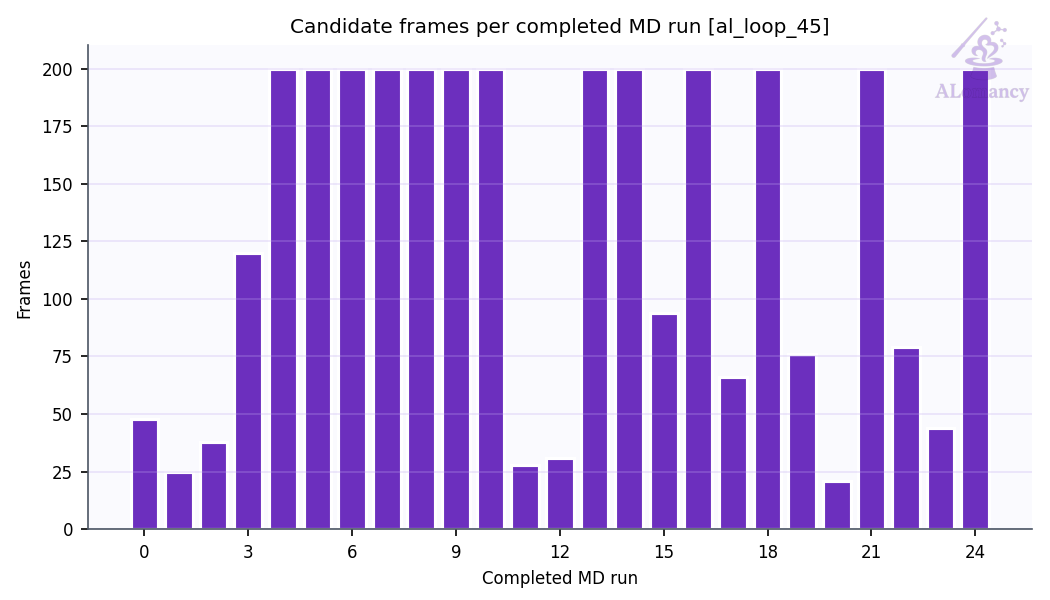
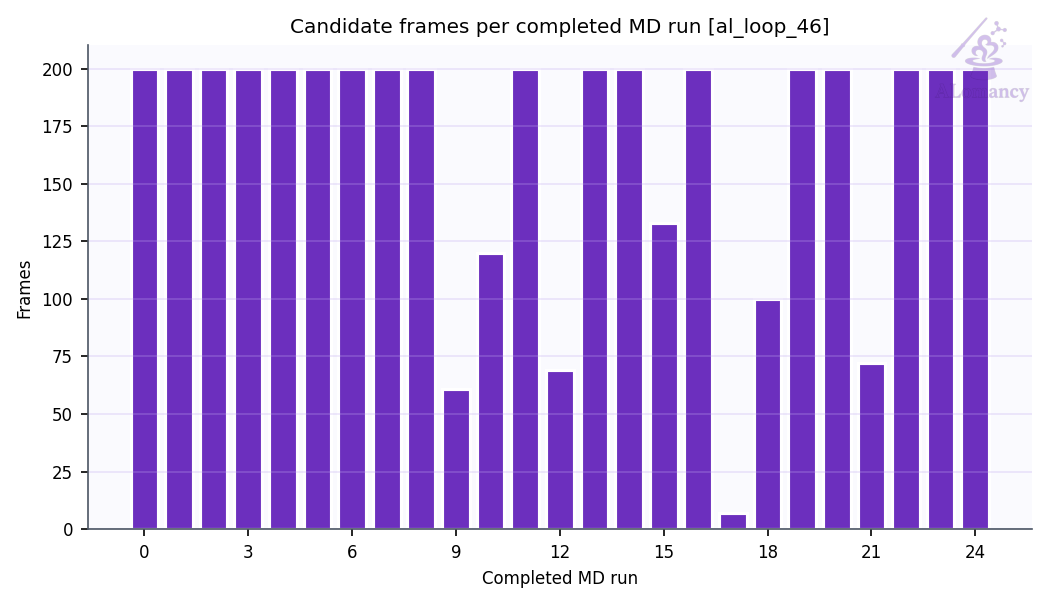
update yun_an

diff --git a/alomancy/yun_an/report/report.md b/alomancy/yun_an/report/report.md
@@ -1,28 +1,29 @@
-# ALomancy report: al_loop_45
+# ALomancy report: al_loop_46
 
-Workflow `committee_uncertainty` · trainer `mace` · generator `md` · evaluator `qe` · generated 2026-10-31T11:51:28
+Workflow `committee_uncertainty` · trainer `mace` · generator `md` · evaluator `qe` · generated 2026-11-01T06:03:38
 
-**Status:** ✖ 2 errors · ⚠ 1 warning · 💡 1 info · 100 warning(s) logged
+**Status:** ✖ 2 errors · ⚠ 2 warnings · 💡 1 info · 50 warning(s) logged
 
 ## Headline
 
-| | loop 44 | loop 45 | change |
+| | loop 45 | loop 46 | change |
 |---|---:|---:|---:|
-| Best model test force MAE (eV/Å) | 0.346 | 0.412 | +19% |
-| Best model test energy MAE (meV/atom) | 144 | 156 | +8% |
-| Training structures | 2e+03 | 2.01e+03 | +1% |
-| Test structures | 100 | 101 | +1% |
-| New structures this loop | 40 | 6 | -85% |
-| Warnings / errors logged | 33 | 100 | +203% |
+| Best model test force MAE (eV/Å) | 0.412 | 0.353 | -14% |
+| Best model test energy MAE (meV/atom) | 156 | 207 | +33% |
+| Training structures | 2.01e+03 | 2.06e+03 | +2% |
+| Test structures | 101 | 107 | +6% |
+| New structures this loop | 6 | 54 | +800% |
+| Warnings / errors logged | 100 | 50 | -50% |
 
-Best model: fit_4 of 5 (chosen on the `valid` split).
+Best model: fit_0 of 5 (chosen on the `valid` split).
 
 ## Issues & suggestions
 
-- ✖ **remote_jobs_failed**: 97/136 remote jobs (71%) failed (85) or died (12). Check the job logs (results/alomancy.log has each failure's traceback); jobs killed by the scheduler usually need a longer max_time for that phase, or a partition with more memory.
-- ✖ **dft_partial_failure**: 94/100 structures sent to DFT (94%) came back without a result. Check the DFT output in results/<loop>/high_accuracy_evaluation; raise high_accuracy_evaluation.max_time / max_go_time if jobs timed out.
-- ⚠ **short_bond_excluded**: 2072/3745 structures (55%) were dropped for a bond shorter than 0.5 Å. The model is driving MD into collisions: lower md_kwargs.temperature or md_kwargs.timestep_fs, or add more short-range initialization data (dimers/trimers).
-- 💡 **overfitting**: The best model's test force MAE (0.412 eV/Å) is 2.5x its training MAE (0.165 eV/Å). The test set covers configurations training doesn't: keep adding data, or raise general.dataset_kwargs.valid_fraction to select models on held-out data.
+- ✖ **remote_jobs_failed**: 47/131 remote jobs (36%) failed (41) or died (6). Check the job logs (results/alomancy.log has each failure's traceback); jobs killed by the scheduler usually need a longer max_time for that phase, or a partition with more memory.
+- ✖ **dft_partial_failure**: 46/100 structures sent to DFT (46%) came back without a result. Check the DFT output in results/<loop>/high_accuracy_evaluation; raise high_accuracy_evaluation.max_time / max_go_time if jobs timed out.
+- ⚠ **go_not_converged**: 33/54 geometry optimisations (61%) stopped at the step budget (200 steps) before reaching the force ceiling. Raise high_accuracy_evaluation.max_num_of_relax_steps, or raise high_accuracy_evaluation.force_ceiling (now 0.05 eV/Å) so they stop earlier. Non-converged structures are still kept as training data.
+- ⚠ **short_bond_excluded**: 3369/4637 structures (73%) were dropped for a bond shorter than 0.5 Å. The model is driving MD into collisions: lower md_kwargs.temperature or md_kwargs.timestep_fs, or add more short-range initialization data (dimers/trimers).
+- 💡 **go_steps_near_budget**: Geometry optimisations used 185 of 200 allowed steps on average (92%). Consider raising high_accuracy_evaluation.max_num_of_relax_steps before they start hitting the limit.
 
 ## Trends
 
@@ -38,6 +39,7 @@ Best model: fit_4 of 5 (chosen on the `valid` split).
 | 43 | 0.473 | 1971 | 57 | 57/75 | 77% | 3 | 39 |
 | 44 | 0.346 | 1997 | 40 | 40/55 | 72% | 5 | 33 |
 | 45 | 0.412 | 2007 | 6 | 6/100 | 100% | 0 | 100 |
+| 46 | 0.353 | 2055 | 54 | 54/100 | 39% | 0 | 50 |
 
 ![Best-model MAE per loop](plots/training_al_loop_mae_plot.png)
 
@@ -47,7 +49,7 @@ Best model: fit_4 of 5 (chosen on the `valid` split).
 
 ![Best model parity](plots/best_model_parity.png)
 
-Median relative error: train energy 4.3%, force 18.6%; test energy 1.8%, force 214.7%.
+Median relative error: train energy 3.9%, force 20.6%; test energy 4.1%, force 213.4%.
 Energies with |formation energy| < 0.05 eV/atom and atoms with |F| < 0.1 eV/Å are left out; force error is |ΔF|/|F| per atom.
 
 ![Best model percentage error](plots/best_model_percent_error.png)
@@ -57,17 +59,17 @@ Energies with |formation energy| < 0.05 eV/atom and atoms with |F| < 0.1 eV/Å a
 | config_type | Train | Test | Excluded: redundant | Excluded: quality filter | total |
 |---|---:|---:|---:|---:|---:|
 | IsolatedAtom | 5 | 0 | 0 | 0 | 5 |
-| high_sd | 606 | 85 | 28 | 375 | 1094 |
+| high_sd | 654 | 91 | 28 | 429 | 1202 |
 | init_MP | 69 | 4 | 0 | 0 | 73 |
 | init_amorphous | 67 | 12 | 8 | 0 | 87 |
 | init_dimer | 299 | 0 | 0 | 0 | 299 |
 | init_stretch_compress | 390 | 0 | 0 | 398 | 788 |
 | init_trimer | 571 | 0 | 0 | 0 | 571 |
-| **all** | **2007** | **101** | **36** | **773** | **2917** |
+| **all** | **2055** | **107** | **36** | **827** | **3025** |
 
-- Redundancy removal: 36 structure(s) flagged in total, 0 of this loop's 6 new.
-- DFT geometry-optimisation starting frames: 6 stored this loop, 0 used (the rest excluded by the train/test filters or redundancy removal).
-- Quality filters: high_force: 771, formation_energy: 181.
+- Redundancy removal: 36 structure(s) flagged in total, 0 of this loop's 54 new.
+- DFT geometry-optimisation starting frames: 54 stored this loop, 0 used (the rest excluded by the train/test filters or redundancy removal).
+- Quality filters: high_force: 825, formation_energy: 232.
 
 ![Training set composition](plots/training_set_composition.png)
 
@@ -75,28 +77,27 @@ Energies with |formation energy| < 0.05 eV/atom and atoms with |F| < 0.1 eV/Å a
 
 Redundancy removal flags near-duplicate training structures, so the model isn't trained on many copies of the same geometry. Each structure is described by `char_vec_128`: all of its interatomic distances, sorted and resampled to 128 values (`global_descriptor/atomic_distance_descriptor.make_char_vec`). Two structures count as duplicates when the Euclidean distance between their descriptors is below a tolerance: in database order, each structure still in the training set is kept unless it is within the tolerance of one already kept. The plot sweeps that tolerance and counts how many structures are kept at each value. **We are looking for plateaus** (shaded): ranges where the count doesn't change, so the result doesn't depend on the exact tolerance. The orange line (right axis) is the number of structures removed between consecutive tolerance steps, the gradient of the count: zero on a plateau. The start of the lowest plateau at least `general.redundancy_kwargs.min_plateau_width` of the swept range wide is used (dashed line). Nothing is flagged when no plateau qualifies, or when it would flag more than `max_flagged_fraction` of the structures; `general.redundancy_kwargs.tolerance` sets the tolerance directly.
 
-- This loop: 778 structures probed, tolerance 0.0398, 36 flagged as duplicates (8 plateau(s) found).
+- This loop: 826 structures probed, tolerance 0.0398, 36 flagged as duplicates (7 plateau(s) found).
 
 ![Redundancy tolerance probe](plots/redundancy_tolerance_probe.png)
 
 ## DFT
 
-- Structures: 6 returned of 100 submitted (6 relaxed, 0 single point).
-- Geometry optimisation: 6/6 reached the force ceiling (0.05 eV/Å); steps mean 123.5, median 121, max 177 of 200 allowed.
-- Average DFT time per relaxation: 315.1 min (median 245.9, max 557.7; 6 structures).
-- Largest per-atom force after DFT: median 0.05, max 0.05 eV/Å.
-- DFT phase wall-clock: 17.0 h (mean queue time 413 min).
+- Structures: 54 returned of 100 submitted (54 relaxed, 0 single point).
+- Geometry optimisation: 21/54 reached the force ceiling (0.05 eV/Å); steps mean 184.5, median 200, max 200 of 200 allowed.
+- Average DFT time per relaxation: 426.4 min (median 420.8, max 548.8; 54 structures).
+- Largest per-atom force after DFT: median 0.09, max 0.50 eV/Å.
 
 ## MLIP training: mace
 
-- Best fit (fit_4) trained for 199 epochs, stage two from epoch 160; weights kept from epoch 161.
+- Best fit (fit_0) trained for 199 epochs, stage two from epoch 160; weights kept from epoch 198.
 
 ![Best model training curve](plots/best_model_training_curve.png)
 
 ## Structure generation: MD
 
 - Runs: 25 (25 completed, 0 seed(s) replaced)
-- Frames: 3270 recorded, 1426 physical (no bond < 0.5 Å, seed frames left out), 500 picked as candidates, spread over each run
+- Frames: 4162 recorded, 1033 physical (no bond < 0.5 Å, seed frames left out), 500 picked as candidates, spread over each run
 - Ensemble npt, T = 300 K, timestep 0.3 fs
 
 ![MD frames per run](plots/md_frames_per_run.png)
@@ -111,7 +112,7 @@ Redundancy removal flags near-duplicate training structures, so the model isn't 
 
 ## Selection: committee uncertainty
 
-- 247 candidates scored; 100 selected (40 %; max force std dev ≥ 0 eV/Å).
+- 235 candidates scored; 100 selected (43 %; max force std dev ≥ 1.29 eV/Å).
 
 ![Committee force std dev](plots/committee_force_std_dev.png)
 
@@ -120,9 +121,9 @@ Redundancy removal flags near-duplicate training structures, so the model isn't 
 | event | meaning | count |
 |---|---|---:|
 | `dft_summary` | DFT batch summary | 1 |
-| `job_died` | remote job died (killed / lost) | 12 |
-| `job_failed` | remote job failed | 85 |
-| `jobs_started` | remote jobs started | 5 |
+| `job_died` | remote job died (killed / lost) | 6 |
+| `job_failed` | remote job failed | 41 |
+| `jobs_started` | remote jobs started | 4 |
 | `md_summary` | MD summary | 1 |
 | `mlip_relax_dropped` | candidates dropped by MLIP relaxation | 1 |
 | `quality_filtered` | train/test quality filter passes | 2 |
